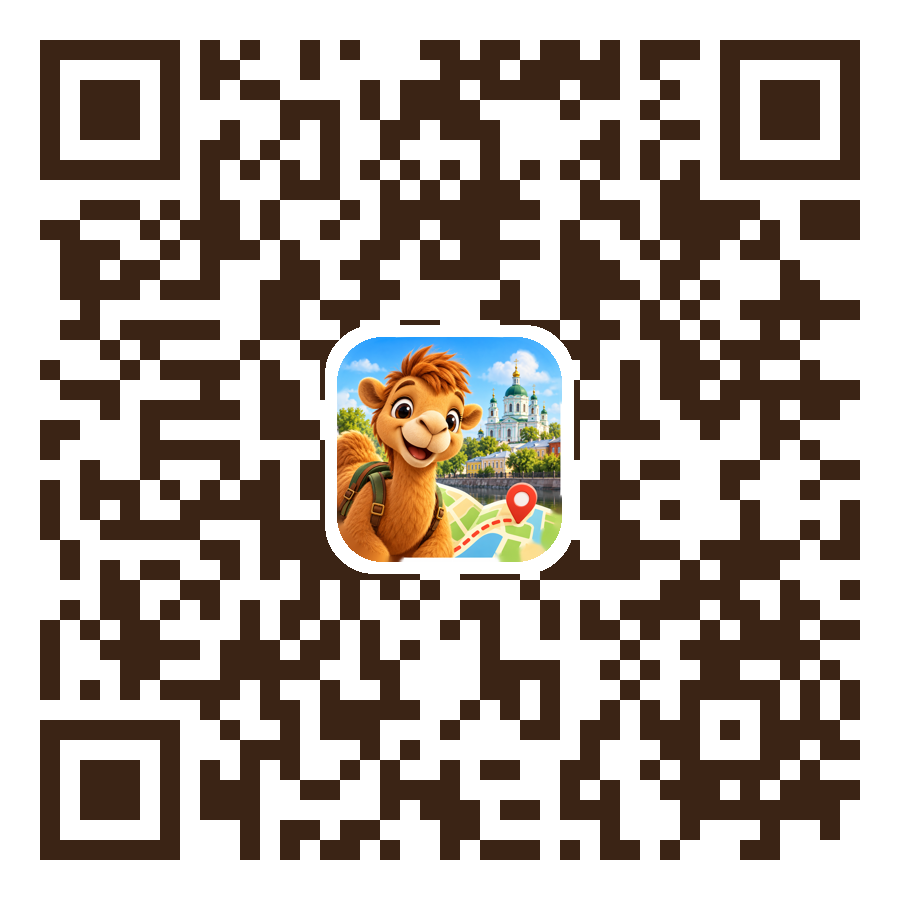
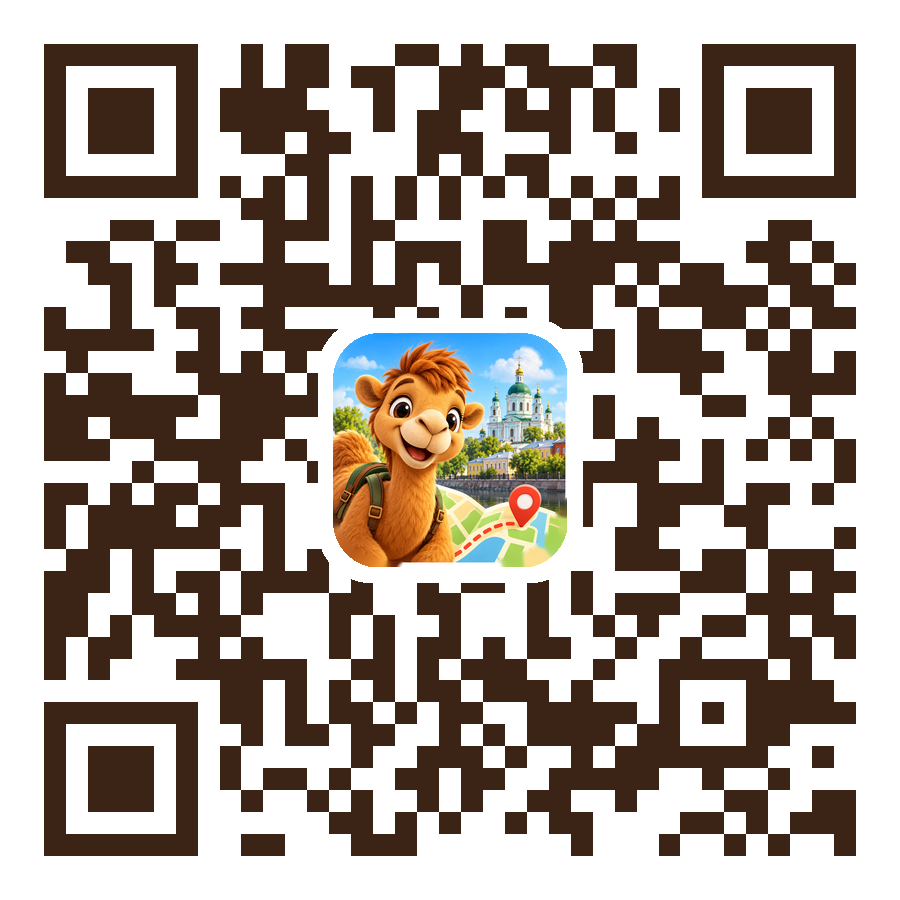
Own domain маленький-караван.рф (1.16)
CNAME for GitHub Pages, link cards and the "open in browser" address on
the new domain, a new QR code (tools/make_qr.py) and the address typed out
under the QR on the project site.

Claude-Session: https://claude.ai/code/session_01M1J6kMihQE3n5EQp18fsrb

diff --git a/site/index.html b/site/index.html
@@ -11,14 +11,14 @@
   <meta property="og:locale" content="ru_RU">
   <meta property="og:title" content="Маленький караван — прогулка по Троицку для детей">
   <meta property="og:description" content="Помоги верблюжонку Троше найти пропавшие вещи! Интерактивная прогулка для детей 4–7 лет с родителями.">
-  <meta property="og:url" content="https://qwest65.github.io/malenkiy-karavan-web/site/">
-  <meta property="og:image" content="https://qwest65.github.io/malenkiy-karavan-web/site/images/og.jpg">
+  <meta property="og:url" content="https://xn----7sbbaalryjidglrj8b2n.xn--p1ai/site/">
+  <meta property="og:image" content="https://xn----7sbbaalryjidglrj8b2n.xn--p1ai/site/images/og.jpg">
   <meta property="og:image:type" content="image/jpeg">
   <meta property="og:image:width" content="1200">
   <meta property="og:image:height" content="630">
   <meta name="twitter:card" content="summary_large_image">
-  <meta property="vk:image" content="https://qwest65.github.io/malenkiy-karavan-web/site/images/og.jpg">
-  <link rel="image_src" href="https://qwest65.github.io/malenkiy-karavan-web/site/images/og.jpg">
+  <meta property="vk:image" content="https://xn----7sbbaalryjidglrj8b2n.xn--p1ai/site/images/og.jpg">
+  <link rel="image_src" href="https://xn----7sbbaalryjidglrj8b2n.xn--p1ai/site/images/og.jpg">
   <link rel="preconnect" href="https://fonts.googleapis.com">
   <link rel="preconnect" href="https://fonts.gstatic.com" crossorigin>
   <link href="https://fonts.googleapis.com/css2?family=Rubik:wght@500;600;700;800;900&display=swap" rel="stylesheet">
@@ -427,7 +427,7 @@
         <span class="apk">или <a href="https://github.com/qwest65/malenkiy-karavan/releases/latest/download/MalenkiyKaravan.apk">скачать APK напрямую</a></span></div>
       <div class="qr-card">
         <img src="../images/qr.png" alt="QR-код: прогулка «Маленький караван»">
-        <span>📱 Открыли на компьютере? Наведите камеру телефона — прогулка откроется сразу.</span>
+        <span>📱 Открыли на компьютере? Наведите камеру телефона — прогулка откроется сразу. Или наберите в браузере <b>маленький-караван.рф</b></span>
       </div>
     </div>
 

diff --git a/index.html b/index.html
@@ -10,20 +10,20 @@
   <meta property="og:type" content="website">
   <meta property="og:locale" content="ru_RU">
   <meta property="og:site_name" content="Маленький караван">
-  <meta property="og:url" content="https://qwest65.github.io/malenkiy-karavan-web/">
+  <meta property="og:url" content="https://xn----7sbbaalryjidglrj8b2n.xn--p1ai/">
   <meta property="og:title" content="Маленький караван — прогулка с Трошей">
   <meta property="og:description" content="Помоги верблюжонку Троше найти пропавшие вещи! Откройте ссылку на телефоне и идите гулять по Троицку: Троша сам расскажет, куда идти.">
-  <meta property="og:image" content="https://qwest65.github.io/malenkiy-karavan-web/images/og.jpg">
-  <meta property="og:image:secure_url" content="https://qwest65.github.io/malenkiy-karavan-web/images/og.jpg">
+  <meta property="og:image" content="https://xn----7sbbaalryjidglrj8b2n.xn--p1ai/images/og.jpg">
+  <meta property="og:image:secure_url" content="https://xn----7sbbaalryjidglrj8b2n.xn--p1ai/images/og.jpg">
   <meta property="og:image:type" content="image/jpeg">
   <meta property="og:image:width" content="1200">
   <meta property="og:image:height" content="630">
   <meta property="og:image:alt" content="Верблюжонок Троша на фоне Свято-Троицкого собора">
   <meta name="twitter:card" content="summary_large_image">
-  <meta name="twitter:image" content="https://qwest65.github.io/malenkiy-karavan-web/images/og.jpg">
-  <meta property="vk:image" content="https://qwest65.github.io/malenkiy-karavan-web/images/og.jpg">
+  <meta name="twitter:image" content="https://xn----7sbbaalryjidglrj8b2n.xn--p1ai/images/og.jpg">
+  <meta property="vk:image" content="https://xn----7sbbaalryjidglrj8b2n.xn--p1ai/images/og.jpg">
   <!-- Старый способ указать картинку: его до сих пор читают некоторые парсеры (VK, OK). -->
-  <link rel="image_src" href="https://qwest65.github.io/malenkiy-karavan-web/images/og.jpg">
+  <link rel="image_src" href="https://xn----7sbbaalryjidglrj8b2n.xn--p1ai/images/og.jpg">
   <link rel="icon" href="icons/favicon.png">
   <link rel="apple-touch-icon" href="icons/apple-touch-icon.png">
   <meta name="apple-mobile-web-app-title" content="Маленький караван">

diff --git a/app.js b/app.js
@@ -6,7 +6,7 @@
 'use strict';
 
 /** Номер веб-версии: виден внизу главного экрана, чтобы понять, обновилось ли приложение. */
-const APP_VERSION = '1.15';
+const APP_VERSION = '1.16';
 const STORE_KEY = 'karavan.journey2';
 const HINT_KEY = 'karavan.installHint';
 const OPENS_KEY = 'karavan.opens';
@@ -1746,7 +1746,7 @@ window.addEventListener('beforeinstallprompt', e => {
   if (S.screen === 'home') render();
 });
 
-const APP_URL = 'https://qwest65.github.io/malenkiy-karavan-web/';
+const APP_URL = 'https://xn----7sbbaalryjidglrj8b2n.xn--p1ai/';
 /** Встроенные браузеры Telegram, ВК, MAX, Instagram и т. п.: там часто нет геопозиции и звука. */
 const inAppBrowser = /Telegram|VKClient|vkontakte|Instagram|FBAN|FBAV|OKApp|OneMe|; wv\)/i.test(navigator.userAgent);
 

diff --git a/sw.js b/sw.js
@@ -3,7 +3,7 @@
  * сохраняется в телефоне, вместе со своей картой Троицка (папка map/).
  * После любых правок увеличьте VERSION, чтобы телефоны забрали новую версию.
  */
-const VERSION = 'v20';
+const VERSION = 'v21';
 // Своя приставка: на том же адресе qwest65.github.io раньше жила старая копия (karavan-app-…).
 const APP_CACHE = `karavan-web-${VERSION}`;
 const FONT_CACHE = 'karavan-fonts';

diff --git a/tools/make_qr.py b/tools/make_qr.py
@@ -1,0 +1,42 @@
+#!/usr/bin/env python3
+"""QR-код прогулки для маршрутных листов и листовок: images/qr.png (900×900, Троша в середине).
+
+    pip install qrcode pillow
+    python3 tools/make_qr.py
+
+Адрес — в URL ниже. В QR-код он записан латиницей (xn--…): так его прочитает любая камера,
+а телефон покажет и откроет маленький-караван.рф.
+"""
+from pathlib import Path
+
+import qrcode
+from PIL import Image, ImageDraw
+
+ROOT = Path(__file__).resolve().parents[1]
+URL = "https://xn----7sbbaalryjidglrj8b2n.xn--p1ai/"
+SIZE = 900
+COLOR = (59, 36, 21)
+
+
+def main():
+    qr = qrcode.QRCode(error_correction=qrcode.constants.ERROR_CORRECT_H, box_size=10, border=2)
+    qr.add_data(URL)
+    qr.make(fit=True)
+    img = qr.make_image(fill_color=COLOR, back_color="white").convert("RGB").resize((SIZE, SIZE), Image.NEAREST)
+
+    # Троша в середине: четверть стороны, на белой подложке со скруглёнными углами.
+    icon_side = SIZE * 26 // 100
+    pad = SIZE // 60
+    box = icon_side + 2 * pad
+    x = (SIZE - box) // 2
+    ImageDraw.Draw(img).rounded_rectangle([x, x, x + box, x + box], radius=box // 5, fill="white")
+    icon = Image.open(ROOT / "icons/icon-512.png").convert("RGBA").resize((icon_side, icon_side), Image.LANCZOS)
+    mask = Image.new("L", icon.size, 0)
+    ImageDraw.Draw(mask).rounded_rectangle([0, 0, icon_side, icon_side], radius=icon_side // 5, fill=255)
+    img.paste(icon, (x + pad, x + pad), mask)
+    img.save(ROOT / "images/qr.png", optimize=True)
+    print(f"images/qr.png → {URL}")
+
+
+if __name__ == "__main__":
+    main()

diff --git a/README.md b/README.md
@@ -7,7 +7,7 @@
 **Прогулка по Троицку с верблюжонком Трошей для детей 4–7 лет и родителей.**
 Работает прямо в браузере телефона: на iPhone и на Android, без установки.
 
-### 👉 [qwest65.github.io/malenkiy-karavan-web](https://qwest65.github.io/malenkiy-karavan-web/)
+### 👉 [маленький-караван.рф](https://маленький-караван.рф/)
 
 <img src="images/qr.png" width="220" alt="QR-код прогулки" />
 
@@ -73,10 +73,10 @@
 | `data/paths.json`, `data/streets.json` | Пешеходные линии и улицы центра — строятся сами из `route.json` |
 | `audio/` | Озвучка: рассказчик — Яндекс SpeechKit, Троша — ElevenLabs (MP3) |
 | `stickers/` | Наклейки: Троша, вещи, значок |
-| `images/` | Картинка для карточки ссылки и QR-код |
+| `images/` | Картинка для карточки ссылки и QR-код (`tools/make_qr.py`) |
 | `map/` | Своя карта Троицка: оформление, кусочки карты, значки и шрифты — строится сама (workflow «Map») |
 | `vendor/` | Библиотека карты MapLibre GL JS 4.7.1 |
-| `site/` | Сайт проекта для родителей и педагогов — https://qwest65.github.io/malenkiy-karavan-web/site/ — и политика конфиденциальности |
+| `site/` | Сайт проекта для родителей и педагогов — https://маленький-караван.рф/site/ — и политика конфиденциальности |
 | `tools/build_map.py` | Скачивает карту Троицка с OpenFreeMap в `map/` (workflow «Map») |
 | `tools/build_streets.py` | Строит пешеходные линии и улицы из OpenStreetMap (workflow «Walking paths») |
 | `tools/generate_audio.py` | Озвучка рассказчика Яндекс SpeechKit (workflow «Voice») |
@@ -145,6 +145,13 @@ npm install --no-save playwright && npx playwright install chromium && node test
 
 ## Публикация
 
+**Адрес** — маленький-караван.рф (латиницей `xn----7sbbaalryjidglrj8b2n.xn--p1ai`, файл `CNAME`).
+Домен куплен в REG.RU; там в DNS четыре записи A на GitHub (`185.199.108.153`, `…109.153`, `…110.153`,
+`…111.153`) и CNAME `www` → `qwest65.github.io`. Сертификат для https бесплатный (Let's Encrypt),
+его выпускает и продлевает GitHub сам. Старый адрес `qwest65.github.io/malenkiy-karavan-web/`
+перенаправляет на новый. Альбом, прогресс и имя для грамоты браузер хранит отдельно для каждого
+адреса — после переезда они начинаются заново.
+
 Сайт публикует GitHub Pages из ветки `main` (Settings → Pages → Deploy from a branch → `main` / `(root)`).
 Изменения появляются по ссылке через 1–2 минуты после попадания в `main`.
 
@@ -152,17 +159,18 @@ npm install --no-save playwright && npx playwright install chromium && node test
 [@WebpageBot](https://t.me/WebpageBot), он обновит её.
 
 MAX перечитывает карточку сам. Если всё же видна старая — отправьте ссылку с хвостиком,
-например `https://qwest65.github.io/malenkiy-karavan-web/?v=3` (каждый раз новое число).
+например `https://маленький-караван.рф/?v=3` (каждый раз новое число).
 
 ## Связанные проекты
 
 - 📱 [Android-приложение](https://github.com/qwest65/malenkiy-karavan) — тот же маршрут, есть в RuStore.
-- 🌐 [Сайт проекта](https://qwest65.github.io/malenkiy-karavan-web/site/) — о прогулке, для родителей и педагогов (папка `site/`).
+- 🌐 [Сайт проекта](https://маленький-караван.рф/site/) — о прогулке, для родителей и педагогов (папка `site/`).
 
 ## История версий
 
 | Версия | Что нового |
 |---|---|
+| 1.16 | Свой адрес: маленький-караван.рф; новый QR-код. Старый адрес на GitHub перенаправляет сюда |
 | 1.15 | Карта шире: квадрат 20 × 20 км вокруг центра — весь город с окраинами |
 | 1.14 | Своя карта Троицка рядом с прогулкой: подложка видна и там, где провайдер блокирует чужой сервер карт |
 | 1.13 | Иконка на экране «Домой» подписана «Маленький караван» |
